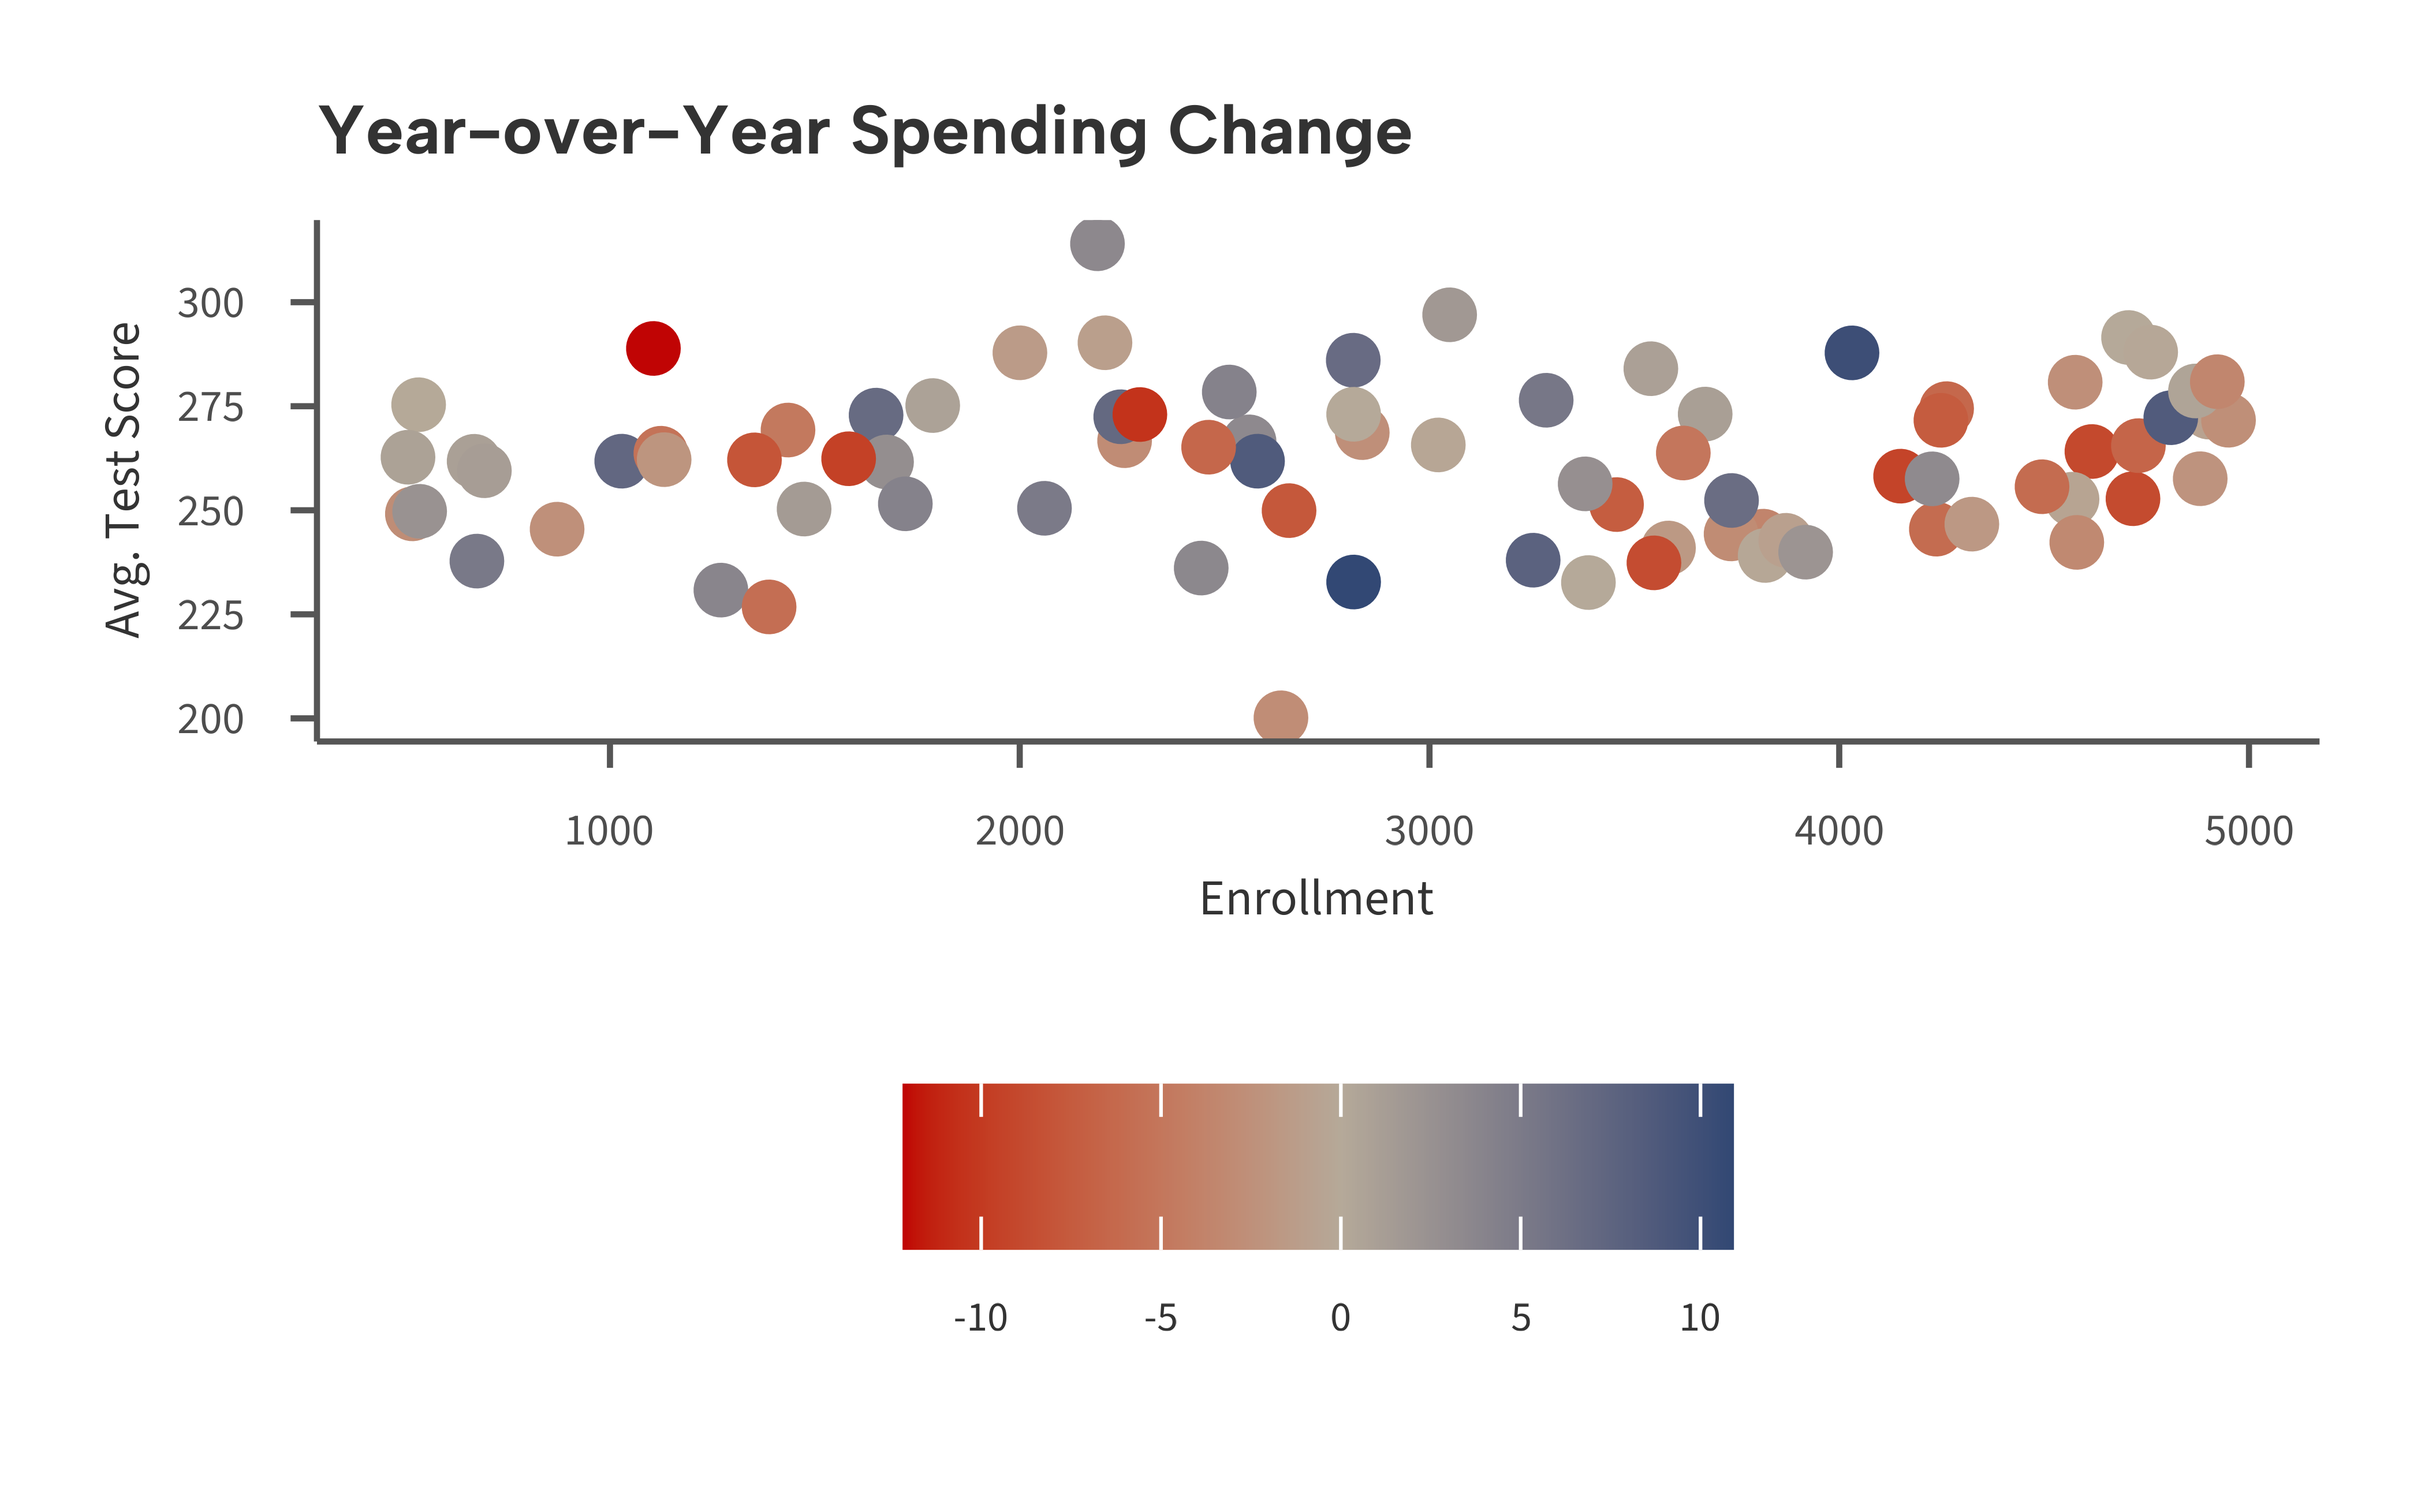
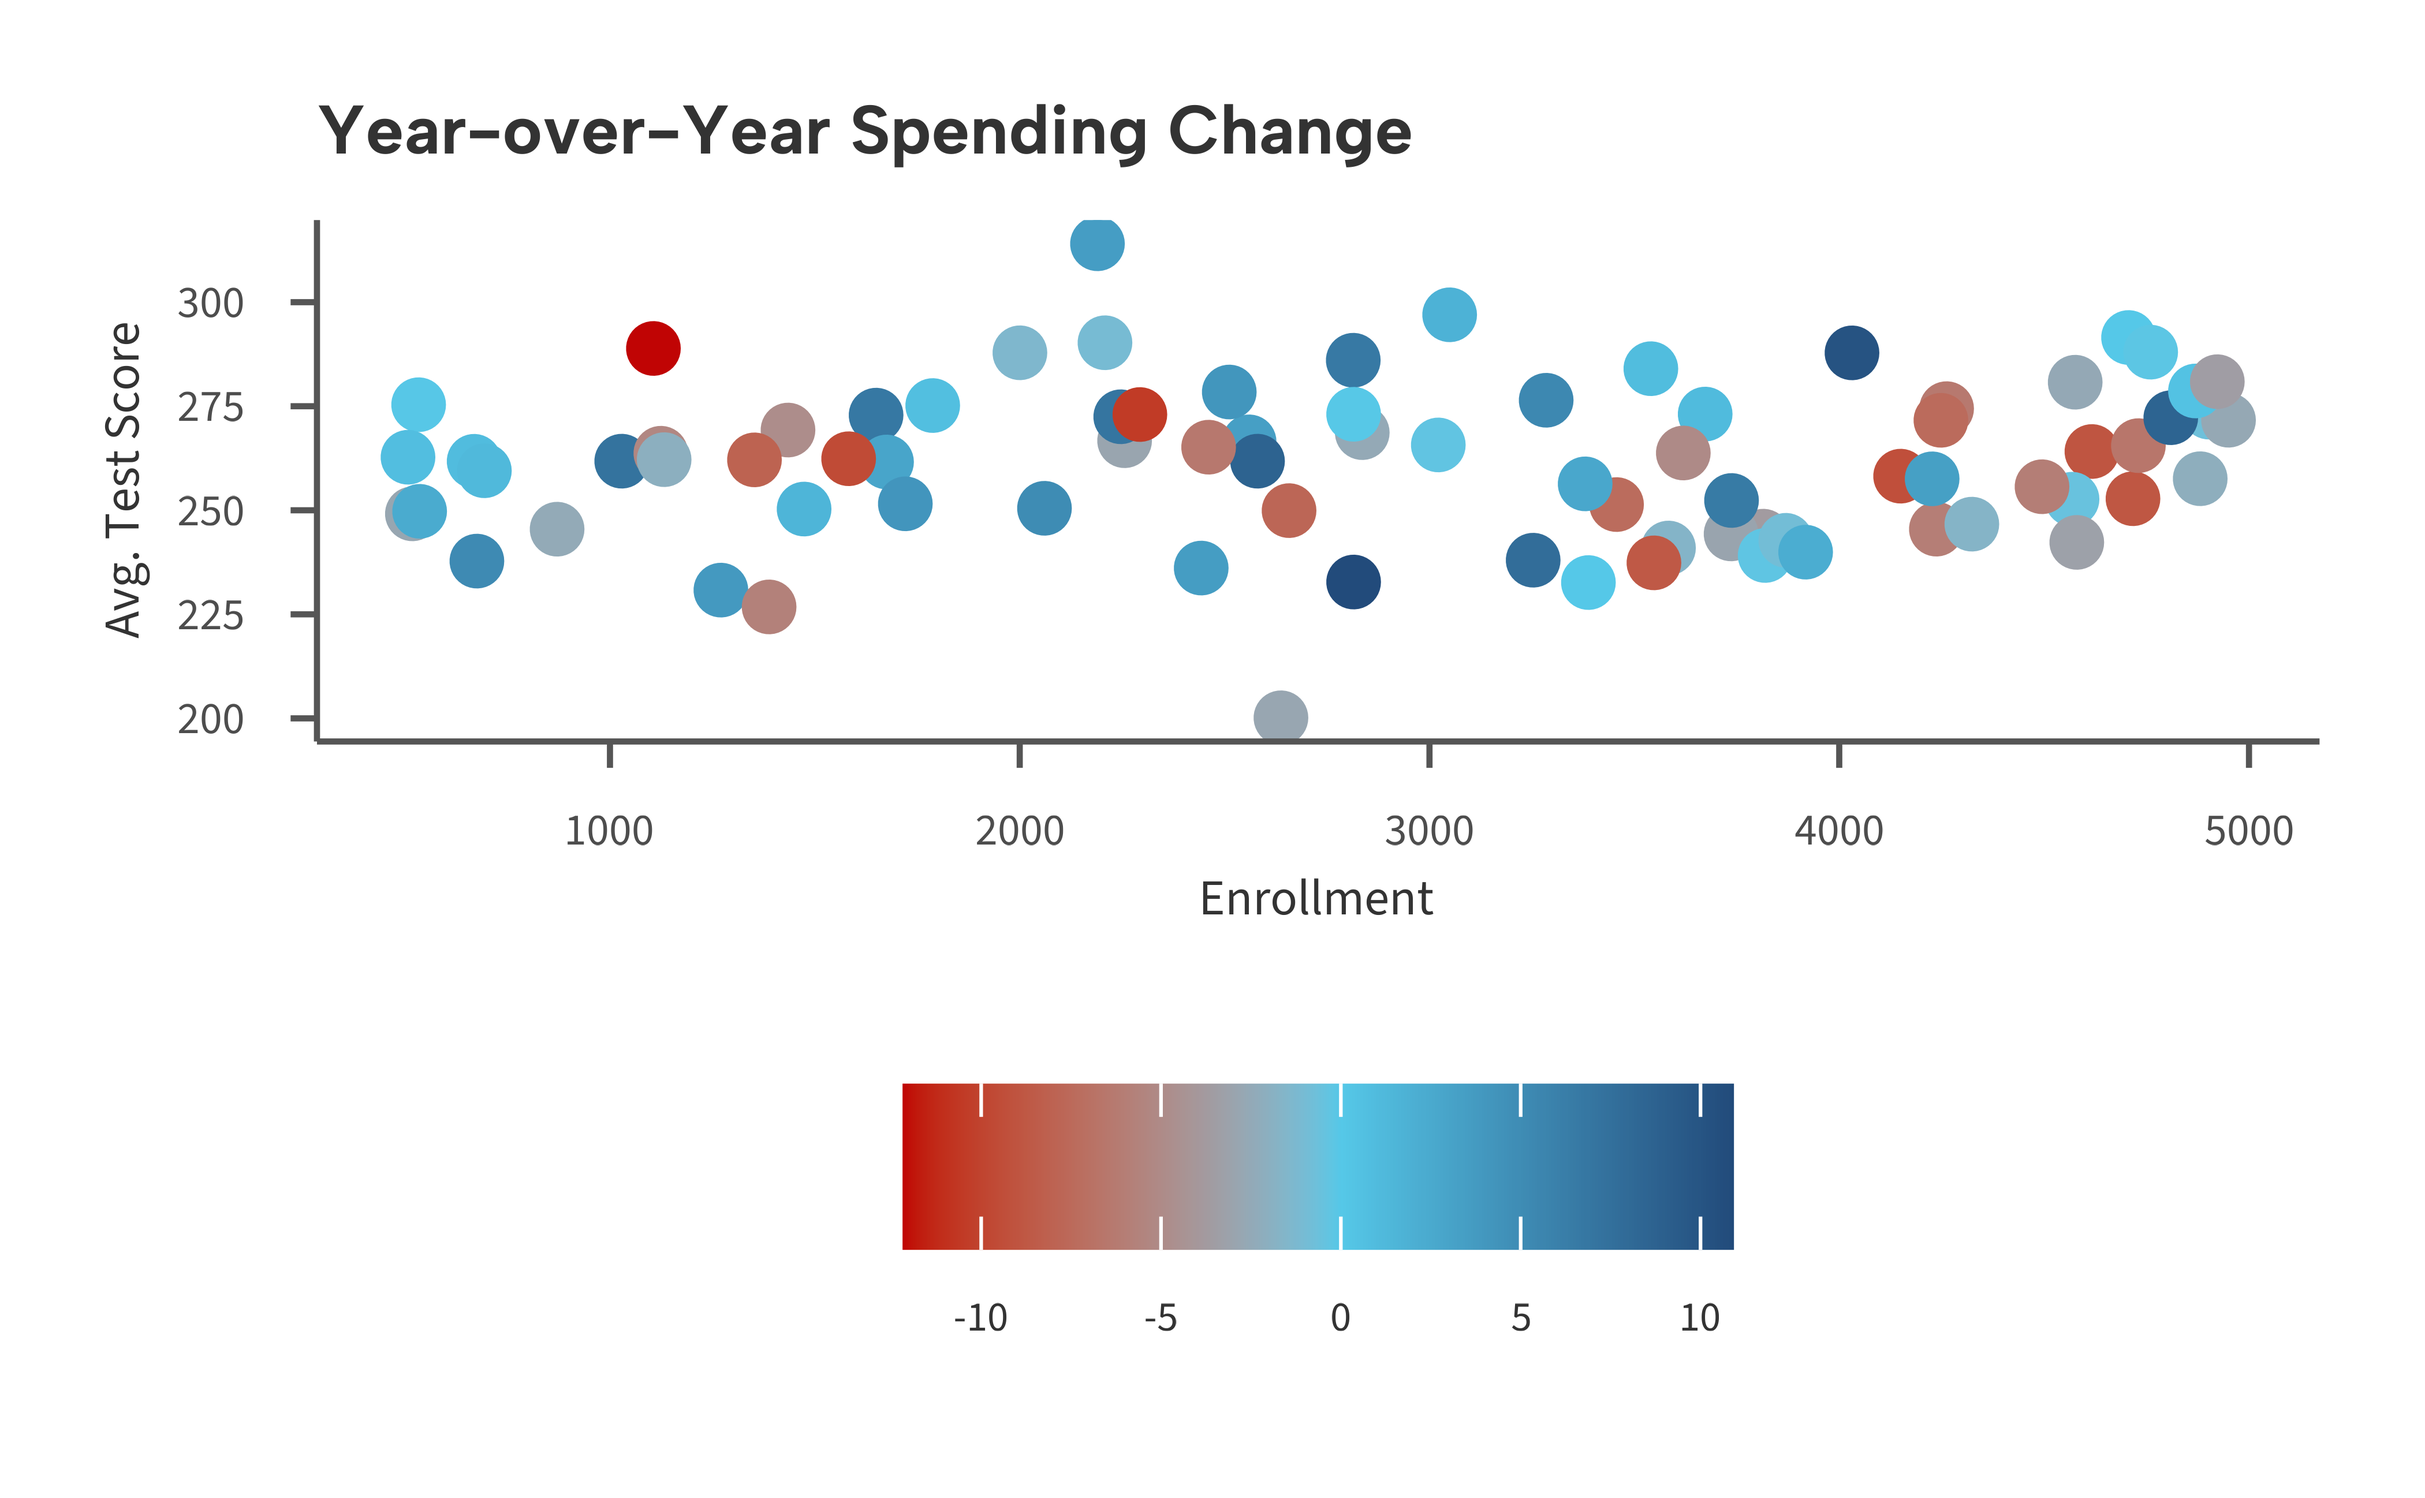
Deploying to gh-pages from @ andrewmcamp/ggaib@9d9cedd64aee3465a7f25dfece378a89b5488e0e 🚀

diff --git a/index.html b/index.html
@@ -231,7 +231,7 @@
 <span>    color <span class="op">=</span> <span class="st">"Spending\nChange (%)"</span></span>
 <span>  <span class="op">)</span> <span class="op">+</span></span>
 <span>  <span class="fu"><a href="reference/theme_aib.html">theme_aib</a></span><span class="op">(</span><span class="op">)</span></span></code></pre></div>
-<p><img src="reference/figures/README-scale-diverging-1.png" alt="Scatter plot of districts colored by year-over-year spending change using a diverging red-taupe-navy scale" width="672"></p>
+<p><img src="reference/figures/README-scale-diverging-1.png" alt="Scatter plot of districts colored by year-over-year spending change using a diverging red-sky-navy scale" width="672"></p>
 </div>
 </div>
 </div>

diff --git a/index.md b/index.md
@@ -193,5 +193,5 @@ ggplot(districts2, aes(enrollment, avg_score, color = spending_change)) +
 ```
 
 ![Scatter plot of districts colored by year-over-year spending change
-using a diverging red-taupe-navy
+using a diverging red-sky-navy
 scale](reference/figures/README-scale-diverging-1.png)
